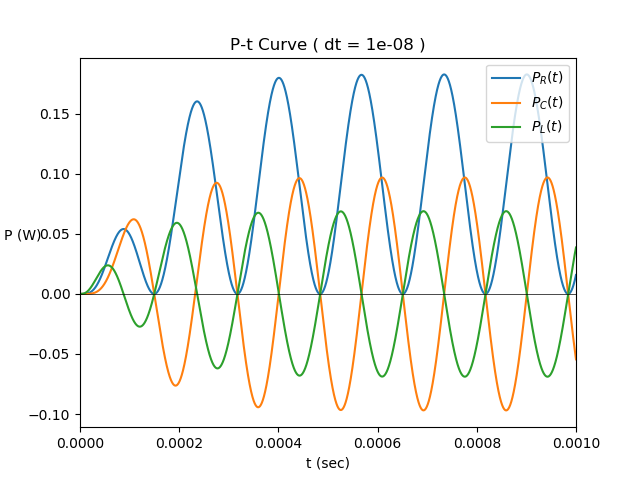
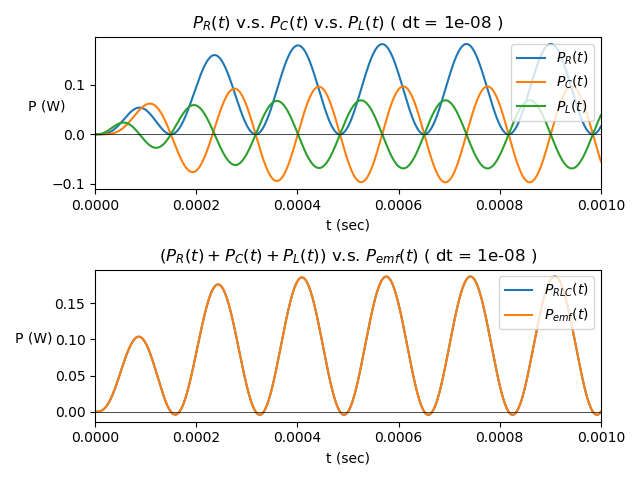
add power of battery

diff --git a/HW7/main.py b/HW7/main.py
@@ -102,26 +102,33 @@ def task_4():
     ts, PVs, PRs, PCs, PLs = get_t_PV_PR_PC_PL()
 
     # fig = plt.figure(figsize=(4, 3), dpi=250)
-    fig = plt.figure()
-    ax = fig.add_subplot(1, 1, 1)
+    fig, (axup, axdown) = plt.subplots(2)
 
-    # ax.plot(ts, PVs, label='$P_{V}(t)$')
-    # ax.plot(ts, PRs+PCs+PLs, label='$P_{sum}(t)$')
-    ax.plot(ts, PRs, label='$P_{R}(t)$')
-    ax.plot(ts, PCs, label='$P_{C}(t)$')
-    ax.plot(ts, PLs, label='$P_{L}(t)$')
+    axup.plot(ts, PRs, label='$P_{R}(t)$')
+    axup.plot(ts, PCs, label='$P_{C}(t)$')
+    axup.plot(ts, PLs, label='$P_{L}(t)$')
 
-    ax.set_title(f'P-t Curve ( dt = {CC.dt} )')
-    ax.set_xlabel('t (sec)')
-    ax.set_ylabel('P (W)', rotation=0)
-    ax.axhline(y=0, color='k', linewidth=0.5)
-    ax.set_xlim(left=ts[0], right=ts[-1])
-    ax.legend(loc='upper right')
+    axdown.plot(ts, PRs+PCs+PLs, label='$P_{RLC}(t)$')
+    axdown.plot(ts, PVs, label='$P_{emf}(t)$')
+
+    axup.set_title('$P_{R}(t)$ v.s. $P_{C}(t)$ v.s. $P_{L}(t)$ ' + f'( dt = {CC.dt} )')
+    axup.set_xlabel('t (sec)')
+    axup.set_ylabel('P (W)', rotation=0)
+    axup.axhline(y=0, color='k', linewidth=0.5)
+    axup.set_xlim(left=ts[0], right=ts[-1])
+    axup.legend(loc='upper right')
+    axdown.set_title('$( P_{R}(t) + P_{C}(t) + P_{L}(t) )$ v.s. $P_{emf}(t)$ ' + f'( dt = {CC.dt} )')
+    axdown.set_xlabel('t (sec)')
+    axdown.set_ylabel('P (W)', rotation=0, labelpad=15)
+    axdown.axhline(y=0, color='k', linewidth=0.5)
+    axdown.set_xlim(left=ts[0], right=ts[-1])
+    axdown.legend(loc='upper right')
+    plt.tight_layout()
     plt.show()
 
 
 # task_2()
-task_3()
-# task_4()
+# task_3()
+task_4()
 
 
